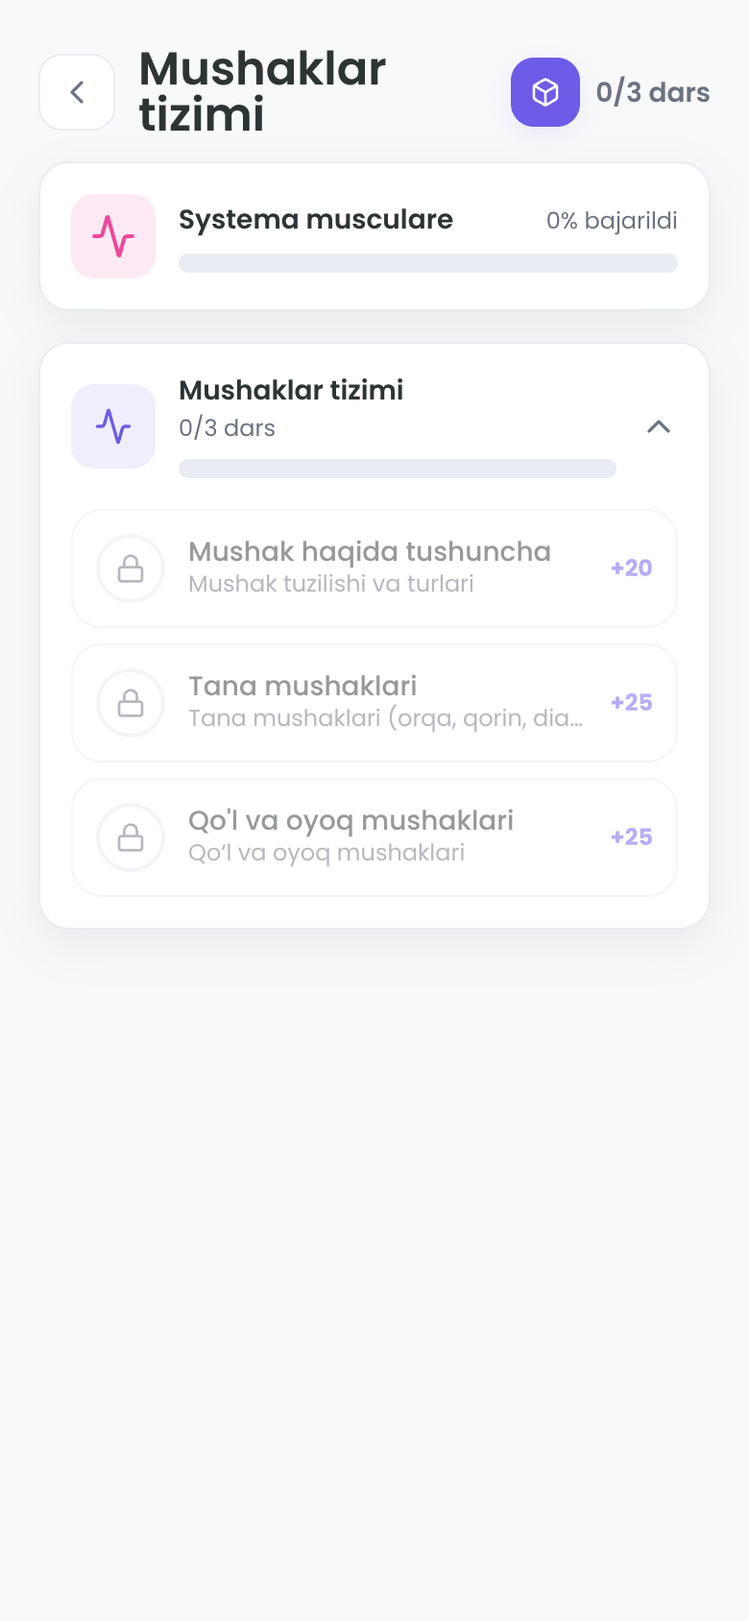
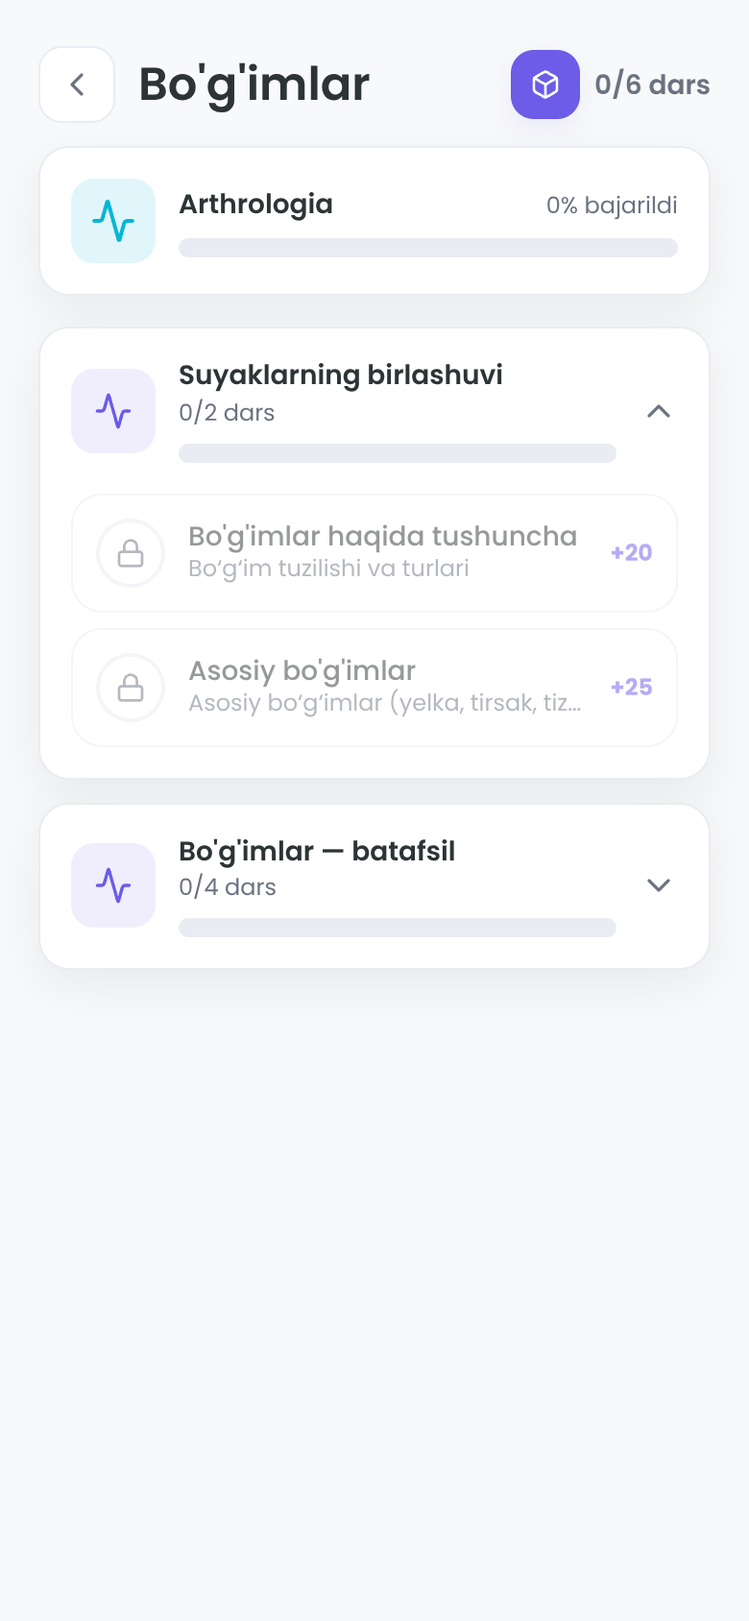
Chala bo'limlar to'ldirildi: bo'g'imlar, mushaklar, tomirlar (batafsil)
- src/data/detail.ts: 10 ta yangi dars (l47-l56), 103 savol (kitobdan)
- Artrologiya: +4 dars (birlashuv turlari, yelka/tirsak, chanoq-son/tizza, to'piq/panja)
- Miologiya: +4 dars (orqa, qorin/diafragma, qo'l, oyoq mushaklari)
- Angiologiya: +2 dars (aorta/arteriyalar, venalar tizimi)
- content.ts: yangi bo'limlar tizimlarga biriktirildi
- Jami: 46 -> 53 dars, 530 -> 633 savol

diff --git a/corpus/src/data/detail.ts b/corpus/src/data/detail.ts
@@ -1,0 +1,256 @@
+/**
+ * KENGAYTIRILGAN bo'limlar — kitobdan (chala qolgan mavzular).
+ * Manba: A. Ahmedov "Anatomiya I jild" (bo'g'imlar 151–212, mushaklar 213–290)
+ *        va "Anatomiya II jild" (arteriya/venalar 93–183).
+ */
+import type { Question, Lesson, SystemUnit } from "./types";
+
+const q = (x: Question): Question => x;
+
+/* ============================================================
+   ARTROLOGIYA — bo'g'imlar (batafsil)
+   ============================================================ */
+export const ARTROLOGY_DETAIL: SystemUnit[] = [
+  {
+    id: "ar-1",
+    title: "Bo'g'imlar — batafsil",
+    icon: "link",
+    color: "#06b6d4",
+    intro: "Suyaklar uch xil: fibroz to'qima (junctura fibrosa), tog'ay (junctura cartilaginea) va suyak to'qimasi (synostosis) orqali birlashadi. Harakatchan bo'g'imlar (sinovial) esa bo'g'im yuzalari, xalta, bo'shliq va boylamlardan tashkil topgan.",
+    lessons: [
+      {
+        id: "l47",
+        title: "Birlashuv turlari va bo'g'im tasnifi",
+        description: "Fibroz, tog'ay, suyak birikishlar; bo'g'im shakllari va o'qlari",
+        xp: 25,
+        minutes: 8,
+        source: { book: "Anatomiya I jild", page: "151–159" },
+        questions: [
+          q({ type: "quiz", prompt: "Kalla suyaklarini biriktiruvchi tishli chok qanday ataladi?", options: ["Sutura squamosa", "Sutura serrata", "Sutura plana", "Symphysis"], answer: 1, difficulty: "medium", explanation: "Tishli chok (sutura serrata) — suyaklarning tishli chekkalari bir-biriga kirishib turadi." }),
+          q({ type: "quiz", prompt: "Tog'ay orqali bo'ladigan birikish qanday ataladi?", options: ["Synostosis", "Syndesmosis", "Synchondrosis", "Sutura"], answer: 2, difficulty: "medium", explanation: "Synchondrosis — tog'ay to'qimasi orqali birikish (masalan, qovurg'a tog'aylari)." }),
+          q({ type: "quiz", prompt: "Qov suyaklari orasidagi yarim bo'g'im (symphysis) qaysi turga kiradi?", options: ["Fibroz", "Tog'ay", "Suyak", "Sinovial"], answer: 1, difficulty: "medium", explanation: "Symphysis — tog'ay orqali yarimharakatchan birikish (symphysis pubica)." }),
+          q({ type: "quiz", prompt: "Sinovial bo'g'imning asosiy elementlari qaysilar?", options: ["Yuzalar, xalta, bo'shliq, boylamlar", "Chok, tog'ay, suyak", "Tana, ravoq, teshik", "Qorin, pay, parda"], answer: 0, difficulty: "easy" }),
+          q({ type: "quiz", prompt: "Bo'g'im yuzalarini qoplovchi silliq tog'ay qanday ataladi?", options: ["Cartilago articularis", "Capsula articularis", "Ligamentum", "Meniscus"], answer: 0, difficulty: "easy", hint: "Articularis — bo'g'imga oid" }),
+          q({ type: "quiz", prompt: "Sharsimon bo'g'im lotinchada qanday ataladi?", options: ["Articulatio spheroidea", "Articulatio ellipsoidea", "Articulatio trochoidea", "Articulatio plana"], answer: 0, difficulty: "medium", hint: "Sphera — shar" }),
+          q({ type: "quiz", prompt: "Bir o'qli bloksimon bo'g'im qanday ataladi?", options: ["Ginglymus", "Spheroidea", "Sellaris", "Ellipsoidea"], answer: 0, difficulty: "hard", explanation: "Ginglymus (blokli) — bir o'q atrofida bukiladi va yoziladi (masalan, barmoq bo'g'imlari)." }),
+          q({ type: "quiz", prompt: "Egarli bo'g'imga misol qaysi?", options: ["Bosh barmoq kaft-usti bo'g'imi", "Tizza bo'g'imi", "Yelka bo'g'imi", "Chanoq-son bo'g'imi"], answer: 0, difficulty: "hard", explanation: "Bosh barmoqning kaft-usti bo'g'imi egarli (articulatio sellaris) — qarama-qarshi qo'yish imkonini beradi." }),
+          q({ type: "match", prompt: "Bo'g'im turlarini moslang", pairs: [["Sutura serrata", "Tishli chok"], ["Synchondrosis", "Tog'ay birikish"], ["Synostosis", "Suyak birikish"], ["Symphysis", "Yarim bo'g'im"]] }),
+          q({ type: "tf", prompt: "Sinovial bo'g'imda suyaklar orasida bo'shliq (cavitas articularis) bor.", statement: true, difficulty: "easy" }),
+          q({ type: "quiz", prompt: "Ko'p o'qli (har tomonga harakatlanadigan) bo'g'im qaysi?", options: ["Ginglymus", "Spheroidea", "Trochoidea", "Plana"], answer: 1, difficulty: "hard", explanation: "Sharsimon bo'g'im ko'p o'qli — uch o'q atrofida harakatlanadi." }),
+        ],
+      },
+      {
+        id: "l48",
+        title: "Yelka va tirsak bo'g'imlari",
+        description: "To'sh-o'mrov, yelka, tirsak va bilak bo'g'imlari",
+        xp: 30,
+        minutes: 9,
+        source: { book: "Anatomiya I jild", page: "173–183" },
+        questions: [
+          q({ type: "quiz", prompt: "O'mrov suyagi to'sh suyagi bilan qanday bo'g'im hosil qiladi?", options: ["Articulatio sternoclavicularis", "Articulatio acromioclavicularis", "Articulatio humeri", "Articulatio cubiti"], answer: 0, difficulty: "easy", hint: "Sterno — to'sh" }),
+          q({ type: "quiz", prompt: "O'mrovning akromion bilan bo'g'imi qanday ataladi?", options: ["Articulatio sternoclavicularis", "Articulatio acromioclavicularis", "Articulatio humeri", "Articulatio radiocarpea"], answer: 1, difficulty: "medium", hint: "Acromion + clavicula" }),
+          q({ type: "quiz", prompt: "Yelka bo'g'imi (articulatio humeri) qanday shaklda?", options: ["Sharsimon (spheroidea)", "Blokli (ginglymus)", "Egarli (sellaris)", "Yassi (plana)"], answer: 0, difficulty: "medium", explanation: "Yelka bo'g'imi sharsimon — eng harakatchan bo'g'im." }),
+          q({ type: "quiz", prompt: "Yelka bo'g'imining bo'g'im labi (labrum glenoidale) qaysi vazifani bajaradi?", options: ["Chuqurchani chuqurlashtiradi", "Bo'g'imni sovitadi", "Suyak hosil qiladi", "Nerv o'tkazadi"], answer: 0, difficulty: "hard", explanation: "Labrum glenoidale — cavitas glenoidalis'ni chuqurlashtirib, bo'g'imni mustahkamlaydi." }),
+          q({ type: "quiz", prompt: "Tirsak bo'g'imi (articulatio cubiti) nechta bo'g'imdan iborat?", options: ["3", "1", "2", "4"], answer: 0, difficulty: "hard", explanation: "Uchta: humeroulnaris, humeroradialis va radioulnaris proximalis." }),
+          q({ type: "quiz", prompt: "Yelka suyagi bloki (trochlea) bilan bo'g'im hosil qiluvchi suyak qaysi?", options: ["Bilak suyagi (ulna)", "Radius", "Kurak suyagi", "To'sh suyagi"], answer: 0, difficulty: "medium", explanation: "Trochlea humeri — ulnaning blokli chuqurchasi bilan bo'g'im hosil qiladi." }),
+          q({ type: "quiz", prompt: "Bilakni ichkariga burish (pronatio) va tashqariga burish (supinatio) qaysi bo'g'imlarda sodir bo'ladi?", options: ["Radius va ulna orasidagi bo'g'imlarda", "Yelka bo'g'imida", "Tizza bo'g'imida", "Kaft bo'g'imlarida"], answer: 0, difficulty: "hard", explanation: "Pronatio/supinatio — radius ulna atrofida aylanadi (radioulnaris bo'g'imlari)." }),
+          q({ type: "quiz", prompt: "Ikki boshli mushakning uzun boshi payi yelka bo'g'imi orqali qayerga boradi?", options: ["Sulcus intertubercularis orqali", "Foramen magnum orqali", "Canalis carpi orqali", "Hiatus sacralis orqali"], answer: 0, difficulty: "hard", explanation: "Biceps uzun boshi payi do'mboqchalararo egat (sulcus intertubercularis)dan o'tadi." }),
+          q({ type: "match", prompt: "Bo'g'imlarni lotincha nomi bilan moslang", pairs: [["Articulatio humeri", "Yelka bo'g'imi"], ["Articulatio cubiti", "Tirsak bo'g'imi"], ["Articulatio radiocarpea", "Bilak-kaft bo'g'imi"], ["Articulatio acromioclavicularis", "Kurak-o'mrov bo'g'imi"]] }),
+          q({ type: "tf", prompt: "Yelka bo'g'imi eng harakatchan bo'g'im, shuning uchun chiqishlar ko'p uchraydi.", statement: true, difficulty: "medium", explanation: "Katta harakatchanlik = kamroq barqarorlik, shuning uchun chiqish ko'p." }),
+        ],
+      },
+      {
+        id: "l49",
+        title: "Chanoq-son va tizza bo'g'imlari",
+        description: "Chanoq-son bo'g'imi boylamlari va tizza menisk/boylamlari",
+        xp: 30,
+        minutes: 9,
+        source: { book: "Anatomiya I jild", page: "191–203" },
+        questions: [
+          q({ type: "quiz", prompt: "Chanoq-son bo'g'imi (articulatio coxae) qaysi tuzilmalardan hosil bo'ladi?", options: ["Femur boshi va acetabulum", "Humerus va glenoidalis", "Tibia va femur", "Scapula va clavicula"], answer: 0, difficulty: "easy" }),
+          q({ type: "quiz", prompt: "Acetabulum chuqurligini chuqurlashtiruvchi lab qanday ataladi?", options: ["Labrum acetabulare", "Labrum glenoidale", "Meniscus", "Discus"], answer: 0, difficulty: "medium", explanation: "Labrum acetabulare — chanoq bo'g'im chuqurchasini chuqurlashtiradi." }),
+          q({ type: "quiz", prompt: "Chanoq-son bo'g'imining eng kuchli boylami qaysi?", options: ["Lig. iliofemorale", "Lig. ischiofemorale", "Lig. pubofemorale", "Lig. capitis femoris"], answer: 0, difficulty: "hard", explanation: "Lig. iliofemorale — tanadagi eng mustahkam boylamlardan biri." }),
+          q({ type: "quiz", prompt: "Tizza bo'g'imida nechta menisk bor?", options: ["2", "1", "3", "4"], answer: 0, difficulty: "easy", hint: "Medial va lateral" }),
+          q({ type: "quiz", prompt: "Yarimoysimon medial menisk lotinchada qanday ataladi?", options: ["Meniscus medialis", "Meniscus lateralis", "Discus articularis", "Labrum"], answer: 0, difficulty: "medium" }),
+          q({ type: "quiz", prompt: "Tizzaning xochsimon boylamlari qaysilar?", options: ["Lig. cruciatum anterius et posterius", "Lig. collaterale mediale et laterale", "Lig. patellae", "Lig. popliteum"], answer: 0, difficulty: "medium", hint: "Cruciatum — xochsimon" }),
+          q({ type: "quiz", prompt: "Son suyagining orqa xochsimon boylami qayerga birikadi?", options: ["Katta boldir orqa sohasiga", "Tizza qopqog'iga", "Kichik boldir boshiga", "Tovon suyagiga"], answer: 0, difficulty: "hard", explanation: "Lig. cruciatum posterius — tibianing orqa sohasiga birikadi." }),
+          q({ type: "quiz", prompt: "Tizza qopqog'i (patella) qaysi mushak payi ichida joylashgan?", options: ["To'rt boshli son mushagi (quadriceps)", "Ikki boshli son mushagi", "Tikuvchi mushak", "Uch boshli boldir"], answer: 0, difficulty: "hard", explanation: "Patella m. quadriceps femoris payi ichida joylashgan sesamsimon suyak." }),
+          q({ type: "match", prompt: "Boylamlarni moslang", pairs: [["Lig. iliofemorale", "Chanoq-son eng kuchli boylami"], ["Lig. cruciatum anterius", "Oldingi xochsimon boylam"], ["Meniscus medialis", "Ichki yarimoysimon"], ["Lig. patellae", "Tizza qopqog'i boylami"]] }),
+          q({ type: "tf", prompt: "Chanoq-son bo'g'imi sharsimon (ko'p o'qli) bo'g'imdir.", statement: true, difficulty: "medium" }),
+          q({ type: "quiz", prompt: "Tizzada bukilish va yozish (ginglymus tipi) bilan birga qanday harakat ham bor?", options: ["Aylanish (rotatsiya)", "Sirpanish", "Qarama-qarshi qo'yish", "Olib ketish"], answer: 0, difficulty: "hard", explanation: "Tizza bukilganda ozgina aylanish ham mumkin (rotatsiya)." }),
+        ],
+      },
+      {
+        id: "l50",
+        title: "To'piq va oyoq panjasi bo'g'imlari",
+        description: "To'piq bo'g'imi va oyoq gumbazlari",
+        xp: 25,
+        minutes: 8,
+        source: { book: "Anatomiya I jild", page: "204–212" },
+        questions: [
+          q({ type: "quiz", prompt: "To'piq bo'g'imi lotinchada qanday ataladi?", options: ["Articulatio talocruralis", "Articulatio genus", "Articulatio coxae", "Articulatio radiocarpea"], answer: 0, difficulty: "easy", hint: "Talus — oshiq suyagi" }),
+          q({ type: "quiz", prompt: "To'piq bo'g'imini qaysi suyaklar hosil qiladi?", options: ["Tibia, fibula va talus", "Femur, tibia, patella", "Talus va calcaneus", "Tibia va femur"], answer: 0, difficulty: "medium" }),
+          q({ type: "quiz", prompt: "Oyoq panjasining bo'ylama gumbazlari nechta?", options: ["5", "2", "3", "1"], answer: 0, difficulty: "hard", explanation: "Bo'ylama gumbazlar beshta — tovon suyagidan boshlanadi." }),
+          q({ type: "quiz", prompt: "Oyoq gumbazlari qanday vazifa bajaradi?", options: ["Prujina (amortizatsiya) vazifasini", "Suyak hosil qiladi", "Qon aylantiradi", "Nerv o'tkazadi"], answer: 0, difficulty: "easy" }),
+          q({ type: "quiz", prompt: "Tovon suyagi (calcaneus) ostida qaysi tuzilma joylashgan?", options: ["Tovon do'mbog'i (tuber calcanei)", "Malleolus medialis", "Tuberositas tibiae", "Processus styloideus"], answer: 0, difficulty: "medium", explanation: "Tuber calcanei — Axill payi birikadigan tovon do'mbog'i." }),
+          q({ type: "quiz", prompt: "To'piqning tashqi bo'rtig'i (malleolus lateralis) qaysi suyakka tegishli?", options: ["Fibula", "Tibia", "Talus", "Calcaneus"], answer: 0, difficulty: "medium", hint: "Lateralis — tashqi" }),
+          q({ type: "quiz", prompt: "Oyoq panjasining ko'ndalang gumbazi qayerdan o'tadi?", options: ["Kaft suyaklari sohasidan", "Tovon suyagidan", "Barmoqlardan", "To'piqdan"], answer: 0, difficulty: "hard", explanation: "Ko'ndalang gumbaz kaft usti suyaklari sohasidan o'tadi." }),
+          q({ type: "quiz", prompt: "Yassioyoqlik (platypodia) nima?", options: ["Gumbazlarning yassilanishi", "Gumbazning balandlashuvi", "Suyak sinishi", "Bo'g'im chiqishi"], answer: 0, difficulty: "medium", explanation: "Yassioyoqlik — oyoq gumbazlarining pastga tushishi." }),
+          q({ type: "match", prompt: "To'piq va panja atamalarini moslang", pairs: [["Articulatio talocruralis", "To'piq bo'g'imi"], ["Malleolus lateralis", "Tashqi to'piq"], ["Tuber calcanei", "Tovon do'mbog'i"], ["Arcus pedis", "Oyoq gumbazi"]] }),
+          q({ type: "tf", prompt: "To'piq bo'g'imida bukilish (plantar flexio) va yozish (dorsal flexio) harakatlari bor.", statement: true, difficulty: "medium" }),
+        ],
+      },
+    ],
+  },
+];
+
+/* ============================================================
+   MIOLOGIYA — mushaklar (batafsil)
+   ============================================================ */
+export const MYOLOGY_DETAIL: SystemUnit[] = [
+  {
+    id: "my-1",
+    title: "Mushaklar — batafsil",
+    icon: "activity",
+    color: "#EC4899",
+    intro: "Orqa mushaklari yuza va chuqur guruhlarga bo'linadi. Yuza mushaklar kurak va qo'lni harakatlantiradi (trapetsiya, keng orqa), chuqur mushaklar esa umurtqa pog'onasini tik tutadi.",
+    lessons: [
+      {
+        id: "l51",
+        title: "Orqa mushaklari",
+        description: "Trapetsiyasimon, keng orqa, rombasimon va chuqur orqa mushaklari",
+        xp: 30,
+        minutes: 9,
+        source: { book: "Anatomiya I jild", page: "221–229" },
+        questions: [
+          q({ type: "quiz", prompt: "Trapetsiyasimon mushak (m. trapezius) qanday vazifa bajaradi?", options: ["Kurakni ko'taradi va yaqinlashtiradi", "Qo'lni bukadi", "Nafas chiqaradi", "Boshni buradi"], answer: 0, difficulty: "medium" }),
+          q({ type: "quiz", prompt: "Orqaning eng keng mushagi qanday ataladi?", options: ["M. latissimus dorsi", "M. trapezius", "M. rhomboideus", "M. erector spinae"], answer: 0, difficulty: "easy", hint: "Latissimus — keng" }),
+          q({ type: "quiz", prompt: "Keng orqa mushagi qanday vazifa bajaradi?", options: ["Qo'lni keltiradi va ichkariga buradi", "Qo'lni uzoqlashtiradi", "Boshni egiadi", "Nafas oladi"], answer: 0, difficulty: "medium" }),
+          q({ type: "quiz", prompt: "Rombasimon mushak (m. rhomboideus) qayerda joylashgan?", options: ["Kurak va umurtqa pog'onasi orasida", "Yelka oldida", "Son sohasida", "Bo'yinda"], answer: 0, difficulty: "medium", explanation: "Rombasimon mushak kurakni umurtqa pog'onasiga tortadi." }),
+          q({ type: "quiz", prompt: "Kurakni ko'taruvchi mushak qanday ataladi?", options: ["M. levator scapulae", "M. trapezius", "M. latissimus dorsi", "M. deltoideus"], answer: 0, difficulty: "medium", hint: "Levator — ko'taruvchi" }),
+          q({ type: "quiz", prompt: "Umurtqa pog'onasini tik tutuvchi chuqur mushak qanday ataladi?", options: ["M. erector spinae", "M. trapezius", "M. rectus abdominis", "Diaphragma"], answer: 0, difficulty: "hard", explanation: "M. erector spinae — umurtqani yozadi va tik tutadi." }),
+          q({ type: "quiz", prompt: "Pastki tishli orqa mushak (m. serratus posterior inferior) qanday vazifa bajaradi?", options: ["Qovurg'alarni tushiradi (nafas chiqarish)", "Qovurg'alarni ko'taradi", "Kurakni aylantiradi", "Boshni buradi"], answer: 0, difficulty: "hard" }),
+          q({ type: "match", prompt: "Orqa mushaklarini moslang", pairs: [["M. trapezius", "Trapetsiyasimon mushak"], ["M. latissimus dorsi", "Keng orqa mushagi"], ["M. levator scapulae", "Kurakni ko'taruvchi"], ["M. erector spinae", "Umurtqani tiklovchi"]] }),
+          q({ type: "tf", prompt: "Chuqur orqa mushaklari umurtqa pog'onasini tik tutadi va yozadi.", statement: true, difficulty: "medium" }),
+          q({ type: "quiz", prompt: "Katta ko'krak mushagi (m. pectoralis major) qanday vazifa bajaradi?", options: ["Qo'lni keltiradi va ichkariga buradi", "Qo'lni uzoqlashtiradi", "Boshni egiadi", "Nafas chiqaradi"], answer: 0, difficulty: "medium" }),
+        ],
+      },
+      {
+        id: "l52",
+        title: "Qorin va diafragma mushaklari",
+        description: "Qorin devori mushaklari, oq chiziq va diafragma",
+        xp: 30,
+        minutes: 9,
+        source: { book: "Anatomiya I jild", page: "230–241" },
+        questions: [
+          q({ type: "quiz", prompt: "Qorin old devorining to'g'ri mushagi qanday ataladi?", options: ["M. rectus abdominis", "M. obliquus externus", "M. transversus abdominis", "M. quadratus lumborum"], answer: 0, difficulty: "easy", hint: "Rectus — to'g'ri" }),
+          q({ type: "quiz", prompt: "Qorinning tashqi qiya mushagi qanday ataladi?", options: ["M. obliquus externus abdominis", "M. obliquus internus", "M. rectus", "M. transversus"], answer: 0, difficulty: "medium" }),
+          q({ type: "quiz", prompt: "Qorinning eng chuqur mushagi qaysi?", options: ["M. transversus abdominis", "M. obliquus externus", "M. obliquus internus", "M. rectus abdominis"], answer: 0, difficulty: "hard", explanation: "M. transversus — tolalari ko'ndalang joylashgan eng chuqur qorin mushagi." }),
+          q({ type: "quiz", prompt: "Ikki to'g'ri qorin mushagi orasidagi oq chiziq qanday ataladi?", options: ["Linea alba", "Linea aspera", "Linea terminalis", "Linea nuchae"], answer: 0, difficulty: "medium", hint: "Alba — oq" }),
+          q({ type: "quiz", prompt: "To'g'ri qorin mushagidagi ko'ndalang pay tutamlari qanday ataladi?", options: ["Intersectiones tendineae", "Linea alba", "Aponeurosis", "Tendo"], answer: 0, difficulty: "hard", explanation: "Intersectiones tendineae — to'g'ri mushakdagi ko'ndalang pay tutamlari (kubikchalarni hosil qiladi)." }),
+          q({ type: "quiz", prompt: "Diafragma qisqarganda nima sodir bo'ladi?", options: ["Gumbazi pastga tushadi, nafas olinadi", "Gumbazi ko'tariladi, nafas chiqariladi", "Yurak tezlashadi", "Hech narsa o'zgarmaydi"], answer: 0, difficulty: "medium" }),
+          q({ type: "quiz", prompt: "Diafragmaning asosiy teshiklari qaysilar?", options: ["Hiatus aorticus, oesophageus, cavalis", "Foramen magnum", "Foramen ovale", "Hiatus sacralis"], answer: 0, difficulty: "hard", explanation: "Diafragmada aorta, qizilo'ngach va pastki kavak vena teshiklari bor." }),
+          q({ type: "quiz", prompt: "Qovurg'alararo mushaklar qanday ataladi?", options: ["Mm. intercostales", "Mm. obliqui", "Mm. pectorales", "Mm. scaleni"], answer: 0, difficulty: "medium", hint: "Inter — oraliq, costa — qovurg'a" }),
+          q({ type: "match", prompt: "Qorin mushaklarini moslang", pairs: [["M. rectus abdominis", "To'g'ri qorin mushagi"], ["M. obliquus externus", "Tashqi qiya"], ["M. transversus abdominis", "Ko'ndalang mushak"], ["Linea alba", "Oq chiziq"]] }),
+          q({ type: "tf", prompt: "Diafragma — asosiy nafas olish mushagi.", statement: true, difficulty: "easy" }),
+        ],
+      },
+      {
+        id: "l53",
+        title: "Qo'l mushaklari",
+        description: "Delta, ikki/uch boshli, bilak va kaft mushaklari",
+        xp: 30,
+        minutes: 9,
+        source: { book: "Anatomiya I jild", page: "242–263" },
+        questions: [
+          q({ type: "quiz", prompt: "Yelkani yumaloqlab turuvchi mushak qanday ataladi?", options: ["M. deltoideus", "M. trapezius", "M. biceps", "M. triceps"], answer: 0, difficulty: "easy", hint: "Delta — uchburchak" }),
+          q({ type: "quiz", prompt: "Delta mushak qanday vazifa bajaradi?", options: ["Qo'lni uzoqlashtiradi", "Qo'lni keltiradi", "Bilakni bukadi", "Barmoqlarni ochadi"], answer: 0, difficulty: "medium", explanation: "M. deltoideus — qo'lni 90 gradusgacha uzoqlashtiradi." }),
+          q({ type: "quiz", prompt: "Ikki boshli yelka mushagi (m. biceps brachii) qanday vazifa bajaradi?", options: ["Bilakni bukadi va supinatsiya qiladi", "Bilakni yozadi", "Yelkani uzoqlashtiradi", "Kurakni ko'taradi"], answer: 0, difficulty: "medium" }),
+          q({ type: "quiz", prompt: "Uch boshli yelka mushagi (m. triceps brachii) qanday vazifa bajaradi?", options: ["Bilakni yozadi", "Bilakni bukadi", "Qo'lni keltiradi", "Boshni buradi"], answer: 0, difficulty: "medium" }),
+          q({ type: "quiz", prompt: "Bilakning oldingi guruh mushaklari asosan nima qiladi?", options: ["Kaft va barmoqlarni bukadi", "Kaftni yozadi", "Yelkani aylantiradi", "Kurakni ko'taradi"], answer: 0, difficulty: "medium", explanation: "Oldingi guruh — bukuvchilar (flexores)." }),
+          q({ type: "quiz", prompt: "Bilakning orqa guruh mushaklari asosan nima qiladi?", options: ["Kaft va barmoqlarni yozadi", "Kaftni bukadi", "Yelkani uzoqlashtiradi", "Kurakni aylantiradi"], answer: 0, difficulty: "medium", explanation: "Orqa guruh — yozuvchilar (extensores)." }),
+          q({ type: "quiz", prompt: "Bosh barmoqni qarama-qarshi qo'yuvchi mushak qanday ataladi?", options: ["M. opponens pollicis", "M. flexor pollicis", "M. abductor pollicis", "M. adductor pollicis"], answer: 0, difficulty: "hard", explanation: "Opponens pollicis — bosh barmoqni qarama-qarshi qo'yadi (oppositsiya)." }),
+          q({ type: "match", prompt: "Qo'l mushaklarini moslang", pairs: [["M. deltoideus", "Delta mushak"], ["M. biceps brachii", "Ikki boshli mushak"], ["M. triceps brachii", "Uch boshli mushak"], ["M. opponens pollicis", "Bosh barmoq qarama-qarshi qo'yuvchi"]] }),
+          q({ type: "tf", prompt: "Bilakning oldingi guruh mushaklari bukuvchilar, orqa guruh esa yozuvchilardir.", statement: true, difficulty: "medium" }),
+          q({ type: "quiz", prompt: "Kaft mushaklarining qaysi qismi bosh barmoq tepaligini (thenar) hosil qiladi?", options: ["Bosh barmoq mushaklari", "Jimjiloq mushaklari", "Chuvalchangsimon mushaklar", "Kaftlararo mushaklar"], answer: 0, difficulty: "hard", explanation: "Thenar — bosh barmoq tepaligi, uning mushaklari hosil qiladi." }),
+        ],
+      },
+      {
+        id: "l54",
+        title: "Oyoq mushaklari",
+        description: "Chanoq, son, boldir va panja mushaklari",
+        xp: 30,
+        minutes: 9,
+        source: { book: "Anatomiya I jild", page: "265–290" },
+        questions: [
+          q({ type: "quiz", prompt: "Chanoqning eng katta mushagi (dumba) qanday ataladi?", options: ["M. gluteus maximus", "M. iliopsoas", "M. piriformis", "M. gluteus minimus"], answer: 0, difficulty: "easy", hint: "Gluteus — dumba" }),
+          q({ type: "quiz", prompt: "Dumba mushagi qanday vazifa bajaradi?", options: ["Sonni yozadi", "Sonni bukadi", "Tizzani bukadi", "Panjani aylantiradi"], answer: 0, difficulty: "medium", explanation: "M. gluteus maximus — sonni orqaga yozadi (turganda muhim)." }),
+          q({ type: "quiz", prompt: "Sonning oldingi to'rt boshli mushagi qanday ataladi?", options: ["M. quadriceps femoris", "M. biceps femoris", "M. sartorius", "M. gracilis"], answer: 0, difficulty: "medium", hint: "Quadriceps — to'rt boshli" }),
+          q({ type: "quiz", prompt: "To'rt boshli son mushagi qanday vazifa bajaradi?", options: ["Tizzani yozadi", "Tizzani bukadi", "Sonni uzoqlashtiradi", "Panjani bukadi"], answer: 0, difficulty: "medium" }),
+          q({ type: "quiz", prompt: "Tikuvchi mushak (m. sartorius) qayerda joylashgan?", options: ["Sonning old yuzasida qiya", "Sonning orqasida", "Boldirning orqasida", "Chanoqda"], answer: 0, difficulty: "hard", explanation: "M. sartorius — tanadagi eng uzun mushak, sonni qiya kesib o'tadi." }),
+          q({ type: "quiz", prompt: "Sonning orqa guruhi (boldirni bukuvchi) qaysi mushakdan iborat?", options: ["M. biceps femoris", "M. quadriceps femoris", "M. rectus femoris", "M. vastus lateralis"], answer: 0, difficulty: "medium", hint: "Biceps femoris — ikki boshli" }),
+          q({ type: "quiz", prompt: "Boldirning orqa yuzasidagi mushak (Axill payini hosil qiladi) qaysi?", options: ["M. triceps surae", "M. tibialis anterior", "M. quadriceps", "M. gastrocnemius"], answer: 0, difficulty: "medium", explanation: "M. triceps surae — gastrocnemius + soleus, Axill payini hosil qiladi." }),
+          q({ type: "quiz", prompt: "Boldirning oldingi mushagi qanday ataladi?", options: ["M. tibialis anterior", "M. gastrocnemius", "M. soleus", "M. peroneus"], answer: 0, difficulty: "hard", explanation: "M. tibialis anterior — panjani orqaga bukadi (dorsal flexio)." }),
+          q({ type: "match", prompt: "Oyoq mushaklarini moslang", pairs: [["M. gluteus maximus", "Dumba mushagi"], ["M. quadriceps femoris", "To'rt boshli son"], ["M. biceps femoris", "Ikki boshli son"], ["M. triceps surae", "Uch boshli boldir"]] }),
+          q({ type: "tf", prompt: "Axill payi m. triceps surae'dan hosil bo'ladi va tovon do'mbog'iga birikadi.", statement: true, difficulty: "hard", explanation: "Axill payi (tendo calcaneus) tovon do'mbog'iga (tuber calcanei) birikadi." }),
+        ],
+      },
+    ],
+  },
+];
+
+/* ============================================================
+   ANGIOLOGIYA — tomirlar (batafsil)
+   ============================================================ */
+export const ANGIOLOGY_DETAIL: SystemUnit[] = [
+  {
+    id: "ang-1",
+    title: "Tomirlar — batafsil",
+    icon: "heart",
+    color: "#EF4444",
+    intro: "Aorta — organizmdagi eng katta arteriya. U ko'tariluvchi, ravoq va tushuvchi qismlarga bo'linadi. Ravoqdan bosh va qo'lga, tushuvchi qismdan esa tanaga tarmoqlar chiqadi.",
+    lessons: [
+      {
+        id: "l55",
+        title: "Aorta tarmoqlari",
+        description: "Aorta qismlari, ravoq tarmoqlari, uyqu arteriyalari",
+        xp: 30,
+        minutes: 9,
+        source: { book: "Anatomiya II jild", page: "97–150" },
+        questions: [
+          q({ type: "quiz", prompt: "Aortaning qismlari qaysilar?", options: ["Ko'tariluvchi, ravoq, tushuvchi", "Boshi, bo'yni, tanasi", "Uchi, asosi, qanoti", "Oldi, orqasi, yoni"], answer: 0, difficulty: "easy" }),
+          q({ type: "quiz", prompt: "Aorta ravog'idan nechta yirik tarmoq chiqadi?", options: ["3", "2", "4", "5"], answer: 0, difficulty: "hard", explanation: "Uchta: bosh-bo'yin poyasi, chap umumiy uyqu va chap o'mrov osti arteriyalari." }),
+          q({ type: "quiz", prompt: "Bosh va bo'yinni qon bilan ta'minlovchi arteriya qaysi?", options: ["A. carotis communis", "A. femoralis", "A. radialis", "A. tibialis"], answer: 0, difficulty: "easy", hint: "Carotis — uyqu" }),
+          q({ type: "quiz", prompt: "Umumiy uyqu arteriyasi qaysi arteriyalarga bo'linadi?", options: ["Tashqi va ichki uyqu arteriyalari", "Aorta va o'pka", "Son va taqim", "Bilak va kaft"], answer: 0, difficulty: "medium" }),
+          q({ type: "quiz", prompt: "Miyani qon bilan ta'minlovchi arteriya qaysi?", options: ["A. carotis interna", "A. carotis externa", "A. subclavia", "A. brachialis"], answer: 0, difficulty: "medium", explanation: "Ichki uyqu arteriyasi (a. carotis interna) bosh miyani ta'minlaydi." }),
+          q({ type: "quiz", prompt: "Qo'lni qon bilan ta'minlovchi arteriya qaysi?", options: ["A. subclavia", "A. carotis", "A. femoralis", "A. poplitea"], answer: 0, difficulty: "medium", hint: "Subclavia — o'mrov osti" }),
+          q({ type: "quiz", prompt: "Yelka arteriyasi qanday ataladi?", options: ["A. brachialis", "A. radialis", "A. ulnaris", "A. axillaris"], answer: 0, difficulty: "medium", hint: "Brachium — yelka" }),
+          q({ type: "quiz", prompt: "Aortaning qorin qismi qaysi a'zolarni toq (visseral) tarmoqlar bilan ta'minlaydi?", options: ["Oshqozon, jigar, taloq, ichak", "O'pka", "Yurak", "Miya"], answer: 0, difficulty: "hard", explanation: "Qorin aortasining toq tarmoqlari — truncus coeliacus, a. mesenterica superior/inferior." }),
+          q({ type: "quiz", prompt: "Oyoqni qon bilan ta'minlovchi asosiy arteriya qaysi?", options: ["A. femoralis", "A. brachialis", "A. radialis", "A. carotis"], answer: 0, difficulty: "medium", hint: "Femur — son" }),
+          q({ type: "match", prompt: "Arteriyalarni moslang", pairs: [["A. carotis communis", "Uyqu arteriyasi"], ["A. subclavia", "O'mrov osti"], ["A. brachialis", "Yelka"], ["A. femoralis", "Son"]] }),
+          q({ type: "tf", prompt: "Aorta — organizmdagi eng katta arteriya.", statement: true, difficulty: "easy" }),
+        ],
+      },
+      {
+        id: "l56",
+        title: "Venalar tizimi",
+        description: "Yuqori/pastki kavak venalar, darvoza venasi",
+        xp: 30,
+        minutes: 9,
+        source: { book: "Anatomiya II jild", page: "151–183" },
+        questions: [
+          q({ type: "quiz", prompt: "Venalar qonni qayerga olib boradi?", options: ["A'zolardan yurakka", "Yurakdan a'zolarga", "O'pkadan jigarga", "Buyrakdan qovuqqa"], answer: 0, difficulty: "easy" }),
+          q({ type: "quiz", prompt: "Tananing yuqori qismidan qon yig'uvchi vena qaysi?", options: ["V. cava superior", "V. cava inferior", "V. portae", "V. jugularis"], answer: 0, difficulty: "medium", hint: "Superior — yuqori" }),
+          q({ type: "quiz", prompt: "Tananing pastki qismidan qon yig'uvchi vena qaysi?", options: ["V. cava inferior", "V. cava superior", "V. portae", "V. subclavia"], answer: 0, difficulty: "medium", hint: "Inferior — pastki" }),
+          q({ type: "quiz", prompt: "Venalarda qonning orqaga qaytishini oldini oluvchi tuzilma qanday ataladi?", options: ["Klapanlar (qopqoqlar)", "Meniskler", "Boylamlar", "Tog'aylar"], answer: 0, difficulty: "medium", explanation: "Venalardagi klapanlar qonning teskari oqishini oldini oladi." }),
+          q({ type: "quiz", prompt: "Jigar darvoza venasi (v. portae) qaysi a'zolardan qon yig'adi?", options: ["Oshqozon, ichak, taloq, oshqozon osti bezidan", "O'pkadan", "Miyadan", "Yurakdan"], answer: 0, difficulty: "hard", explanation: "V. portae — juftlanmagan qorin a'zolaridan jigarga qon olib keladi." }),
+          q({ type: "quiz", prompt: "Bo'yinning yirik venalari qanday ataladi?", options: ["Vv. jugulares", "Vv. femorales", "Vv. brachiales", "Vv. popliteae"], answer: 0, difficulty: "medium", hint: "Jugulum — bo'yinturuq" }),
+          q({ type: "quiz", prompt: "Kichik qon aylanish doirasining venalari qaysilar?", options: ["Vv. pulmonales", "Vv. cavae", "V. portae", "Vv. renales"], answer: 0, difficulty: "hard", explanation: "O'pka venalari (vv. pulmonales) kislorodga boy qonni chap bo'lmachaga olib keladi." }),
+          q({ type: "match", prompt: "Venalarni moslang", pairs: [["V. cava superior", "Yuqori kavak"], ["V. cava inferior", "Pastki kavak"], ["V. portae", "Darvoza venasi"], ["Vv. pulmonales", "O'pka venalari"]] }),
+          q({ type: "tf", prompt: "O'pka arteriyalari kislorodga boy qon olib boradi.", statement: false, difficulty: "hard", explanation: "O'pka arteriyalari kislorodga KAMBAG'AL (venoz) qonni o'pkaga olib boradi — bu istisno." }),
+          q({ type: "quiz", prompt: "Venalar arteriyalardan qaysi belgi bilan farqlanadi?", options: ["Yupqa devorli va klapanli", "Qalin devorli", "Klapansiz", "Doim pulsli"], answer: 0, difficulty: "medium" }),
+        ],
+      },
+    ],
+  },
+];

diff --git a/corpus/src/data/content.ts b/corpus/src/data/content.ts
@@ -7,6 +7,7 @@ import type { ContentSystem, Lesson, SystemUnit, Question, Difficulty } from "./
 import { OSTEOLOGY_UNITS } from "./osteology";
 import { EXTRA_UNITS } from "./rest";
 import { HARD_QUESTIONS } from "./hardQuestions";
+import { ARTROLOGY_DETAIL, MYOLOGY_DETAIL, ANGIOLOGY_DETAIL } from "./detail";
 
 export type { ContentSystem, Lesson, SystemUnit, Question };
 export type { QuestionType, Difficulty } from "./types";
@@ -51,11 +52,11 @@ const BASE_SYSTEMS: ContentSystem[] = [
   },
   {
     id: "arthrology", name: "Bo'g'imlar", latin: "Arthrologia", en: "Joints",
-    icon: "link", color: "#06b6d4", image: "/img/atlas/arthrologia.jpg", units: EXTRA_UNITS.arthrology ?? [],
+    icon: "link", color: "#06b6d4", image: "/img/atlas/arthrologia.jpg", units: [...(EXTRA_UNITS.arthrology ?? []), ...ARTROLOGY_DETAIL],
   },
   {
     id: "muscular", name: "Mushaklar tizimi", latin: "Systema musculare", en: "Muscular System",
-    icon: "activity", color: "#EC4899", image: "/img/atlas/myologia.jpg", units: EXTRA_UNITS.muscular ?? [],
+    icon: "activity", color: "#EC4899", image: "/img/atlas/myologia.jpg", units: [...(EXTRA_UNITS.muscular ?? []), ...MYOLOGY_DETAIL],
   },
   {
     id: "digestive", name: "Hazm tizimi", latin: "Systema digestorium", en: "Digestive System",
@@ -67,7 +68,7 @@ const BASE_SYSTEMS: ContentSystem[] = [
   },
   {
     id: "circulatory", name: "Yurak-qon tomir tizimi", latin: "Systema cardiovasculare", en: "Circulatory System",
-    icon: "heart", color: "#EF4444", image: "/img/atlas/yurak.jpg", units: EXTRA_UNITS.circulatory ?? [],
+    icon: "heart", color: "#EF4444", image: "/img/atlas/yurak.jpg", units: [...(EXTRA_UNITS.circulatory ?? []), ...ANGIOLOGY_DETAIL],
   },
   {
     id: "nervous", name: "Asab tizimi", latin: "Systema nervosum", en: "Nervous System",

diff --git a/corpus/README.md b/corpus/README.md
@@ -7,19 +7,19 @@ medical-education feel inspired by Complete Anatomy. **O'zbekcha asosiy til**, i
 
 Kontent **A. Ahmedov va boshq. "Anatomiya I/II jild" (2018) darsligi + "Odam anatomiyasi Atlas"** dan olinadi — ixtiro qilinmagan.
 
-**Jami: 11 tizim · 19 bo'lim · 46 dars · 510 savol** (butun kitob).
+**Jami: 11 tizim · 22 bo'lim · 53 dars · 633 savol** (butun kitob).
 
 | Tizim | Bo'limlar | Darslar |
 |---|---|---|
 | 🦴 Suyaklar (Osteologiya) | 9 | 25 |
-| 🔗 Bo'g'imlar (Artrologiya) | 1 | 2 |
-| 💪 Mushaklar (Miologiya) | 1 | 3 |
+| 🔗 Bo'g'imlar (Artrologiya) | 2 | 6 |
+| 💪 Mushaklar (Miologiya) | 2 | 7 |
 | 🍎 Hazm tizimi | 1 | 3 |
 | 🌬 Nafas tizimi | 1 | 2 |
 | 💧 Siydik tizimi | 1 | 2 |
 | 👥 Jinsiy tizim | 1 | 1 |
 | ⚡ Endokrin bezlar | 1 | 1 |
-| ❤ Yurak-qon tomir | 1 | 3 |
+| ❤ Yurak-qon tomir | 2 | 5 |
 | 🧠 Asab tizimi | 1 | 2 |
 | ✨ Sezgi a'zolari | 1 | 2 |
 
